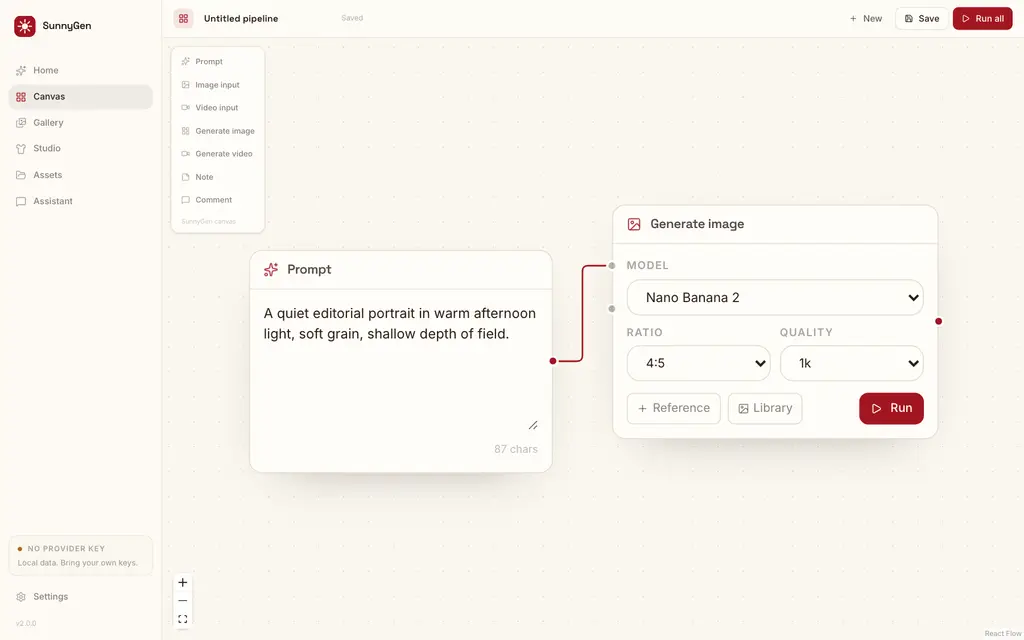
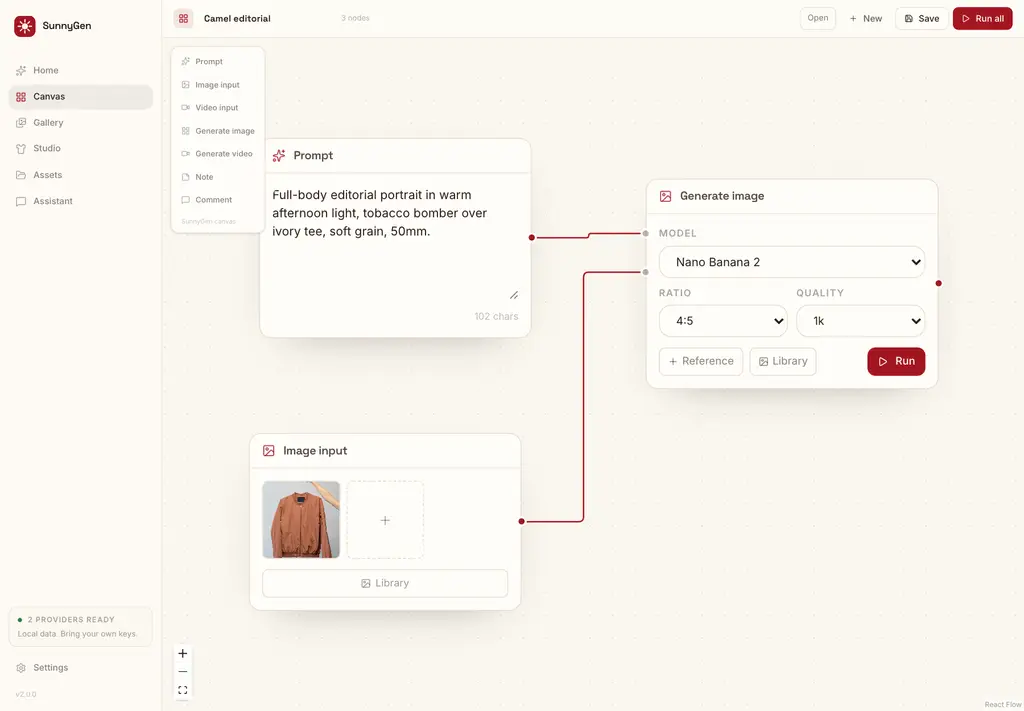
docs: add feature screenshots and lead with Studio

diff --git a/README.md b/README.md
@@ -14,7 +14,9 @@
 
 </div>
 
-![SunnyGen canvas](docs/screenshots/canvas.webp)
+<img src="docs/screenshots/studio.webp" alt="SunnyGen Studio look builder with avatar, wardrobe, pose, scene, and angle controls" width="100%" />
+
+<p align="center"><sub><strong>Studio</strong> — one avatar, up to six garments, one camera angle per render.</sub></p>
 
 ---
 
@@ -57,13 +59,42 @@ pnpm dev
 **Requirements:** Node.js 22.20+ (24 recommended), pnpm 9.15. Docker is optional and only
 needed for social imports.
 
+## A look inside
+
+### Studio
+
+Studio is the main workspace: pick a saved avatar, stack up to six garments in slot order,
+choose a pose and scene, then render one to four angles over the same reference list.
+On-model and supplier photos can be prepped into clean product references without leaving
+the app.
+
+<img src="docs/screenshots/studio-wardrobe.webp" alt="Wardrobe library with garment slots and prep actions" width="100%" />
+
+<p align="center"><sub>The wardrobe library stores slot, source type, notes, and a prepared clean reference per piece.</sub></p>
+
+### Gallery and canvas
+
+| Gallery                                                                                                                | Canvas                                                                                                                     |
+| ---------------------------------------------------------------------------------------------------------------------- | -------------------------------------------------------------------------------------------------------------------------- |
+| <img src="docs/screenshots/gallery.webp" alt="SunnyGen gallery grid with folders and generated images" width="100%" /> | <img src="docs/screenshots/canvas.webp" alt="SunnyGen canvas with prompt, image input, and generate nodes" width="100%" /> |
+| Finished images and video, folders, retries, and a one-off render dialog.                                              | Reusable node pipelines with per-node models, references, and autosave.                                                    |
+
+### Assistant and assets
+
+| Assistant                                                                                                        | Assets                                                                                                        |
+| ---------------------------------------------------------------------------------------------------------------- | ------------------------------------------------------------------------------------------------------------- |
+| <img src="docs/screenshots/assistant.webp" alt="SunnyGen assistant with a lookbook conversation" width="100%" /> | <img src="docs/screenshots/assets.webp" alt="SunnyGen asset library with uploads and folders" width="100%" /> |
+| Prompt drafting and rewrites with selectable response modes.                                                     | Uploads and imported references, deduplicated and ready to reuse.                                             |
+
+<p align="center"><sub>Screenshots use demo content. Demo photography from <a href="https://unsplash.com">Unsplash</a>.</sub></p>
+
 ## Features
 
 | Surface       | What it does                                                                                                                 |
 | ------------- | ---------------------------------------------------------------------------------------------------------------------------- |
+| **Studio**    | Avatar sheets, wardrobe slots, garment prep, pose and scene references, then 1–4 angle renders per look.                     |
 | **Canvas**    | Infinite node editor with prompt, media, generate, note, and comment nodes. Graphs autosave and execute in dependency order. |
 | **Gallery**   | Image and video renders, folders, failed-job retry, lightbox, download, and social imports.                                  |
-| **Studio**    | Avatar sheets, wardrobe slots, garment prep, pose and scene references, then 1–4 angle renders per look.                     |
 | **Assets**    | Uploads and imported references, deduplicated by SHA-256 and served with byte-range support.                                 |
 | **Assistant** | OpenRouter-powered prompt drafting and rewrites with selectable response modes. Never used for generation.                   |
 | **Launcher**  | One command to build, serve, publish on your LAN, and keep the app alive.                                                    |
